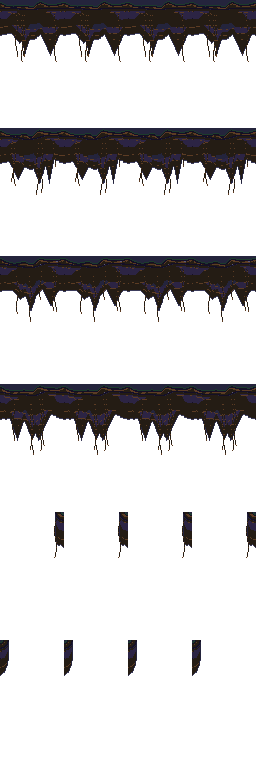
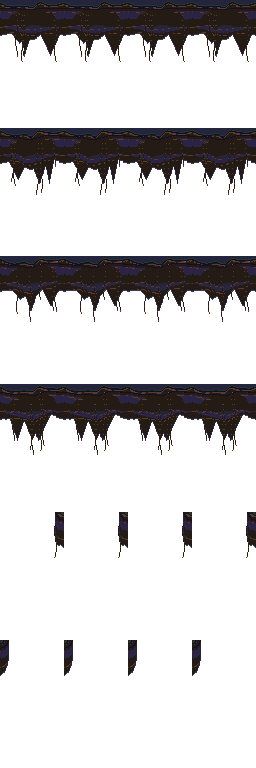
island_underside.png: corners no darker than the sides (Environment Code: the SW corner read darker)
The face's shading deepens by depth in px from the lip, not by the share of each column: the corners' short, tapering columns had reached their darkest tones at once. Same layout, all 4 acts.

diff --git a/Project_T/tools/environment_art/heartwood_grounds.html b/Project_T/tools/environment_art/heartwood_grounds.html
@@ -1835,7 +1835,7 @@ function islandUnderside(A, row, f) {
     lens[x] = len;
     for (let i = 1; i <= len; i++) {
       // (solid to its tip: a fading, broken bottom read as holes into the sky)
-      const y = yl + i, k = i / Math.max(len, 1);
+      const y = yl + i, k = Math.min(1, i / 32);  // depth in px, not a share of the column: short corner columns read darker otherwise
       let c;
       if (i < 3) c = "#241c14";  // the lip's Root earth carries on down
       else {
